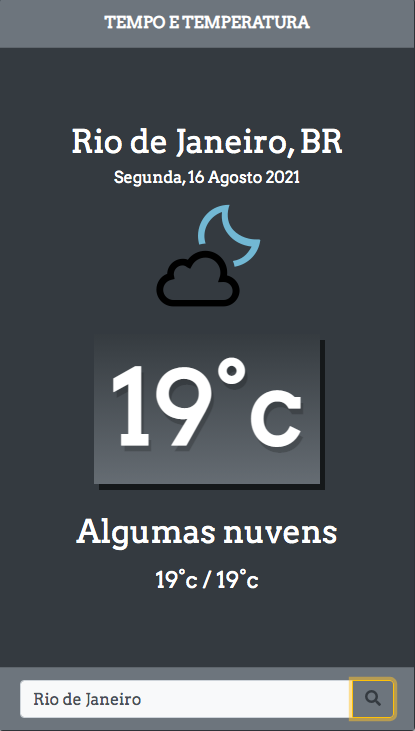
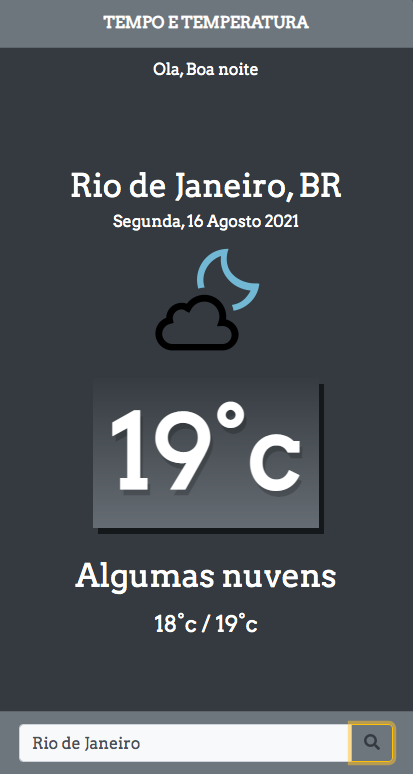
incluido mensagem de saudacao de acordo com a hora do dia

diff --git a/index.html b/index.html
@@ -12,7 +12,7 @@
     <title>Weather-app</title>
 </head>
 
-<body>
+<body onload="saudacao()">
     <div class="container-fluid p-0 container-sm d-flex justify-content-center">
 
         <div class="card text-center shadow-lg bg-dark bg-gradient text-white" style="width: 26rem;">
@@ -20,6 +20,11 @@
             <div class="card-header bg-secondary bg-gradient text-white font-weight-bold">
                 TEMPO E TEMPERATURA
             </div>
+            <div>
+                <div id="saudacao">
+                </div>
+            </div>
+
 
             <div class="card-body">
                 <div class="city">Cidade, BR</div>
@@ -47,14 +52,11 @@
                 </div>
             </div>
             <div>
-                <div></div>
-                <div></div>
             </div>
         </div>
-    </div>
 
-    <script src="public/script.js"></script>
-    <script src="https://kit.fontawesome.com/f0e17cbf2f.js" crossorigin="anonymous"></script>
+        <script src="public/script.js"></script>
+        <script src="https://kit.fontawesome.com/f0e17cbf2f.js" crossorigin="anonymous"></script>
 </body>
 
 </html>

diff --git a/public/script.js b/public/script.js
@@ -5,6 +5,23 @@ const api = {
     units: "metric"
 }
 
+function saudacao() {
+
+    let msg = document.getElementById('saudacao')
+    let data = new Date()
+    let hora = data.getHours()
+    if (hora >= 6 && hora < 12) {
+        msg.innerHTML = "Ola, Bom dia"
+    }
+    else if (hora >= 12 && hora < 18) {
+        msg.innerHTML = "Ola, Boa tarde"
+    }
+    else {
+        msg.innerHTML = "Ola, Boa noite"
+
+    }
+}
+
 const city = document.querySelector('.city')
 const date = document.querySelector('.date');
 const container_img = document.querySelector('.container-img');

diff --git a/public/style.css b/public/style.css
@@ -11,6 +11,10 @@ body {
     background-color: #cacaca;
 }
 
+#saudacao {
+    padding: 10px;
+}
+
 .card-body {
     padding: 70px;
 }
